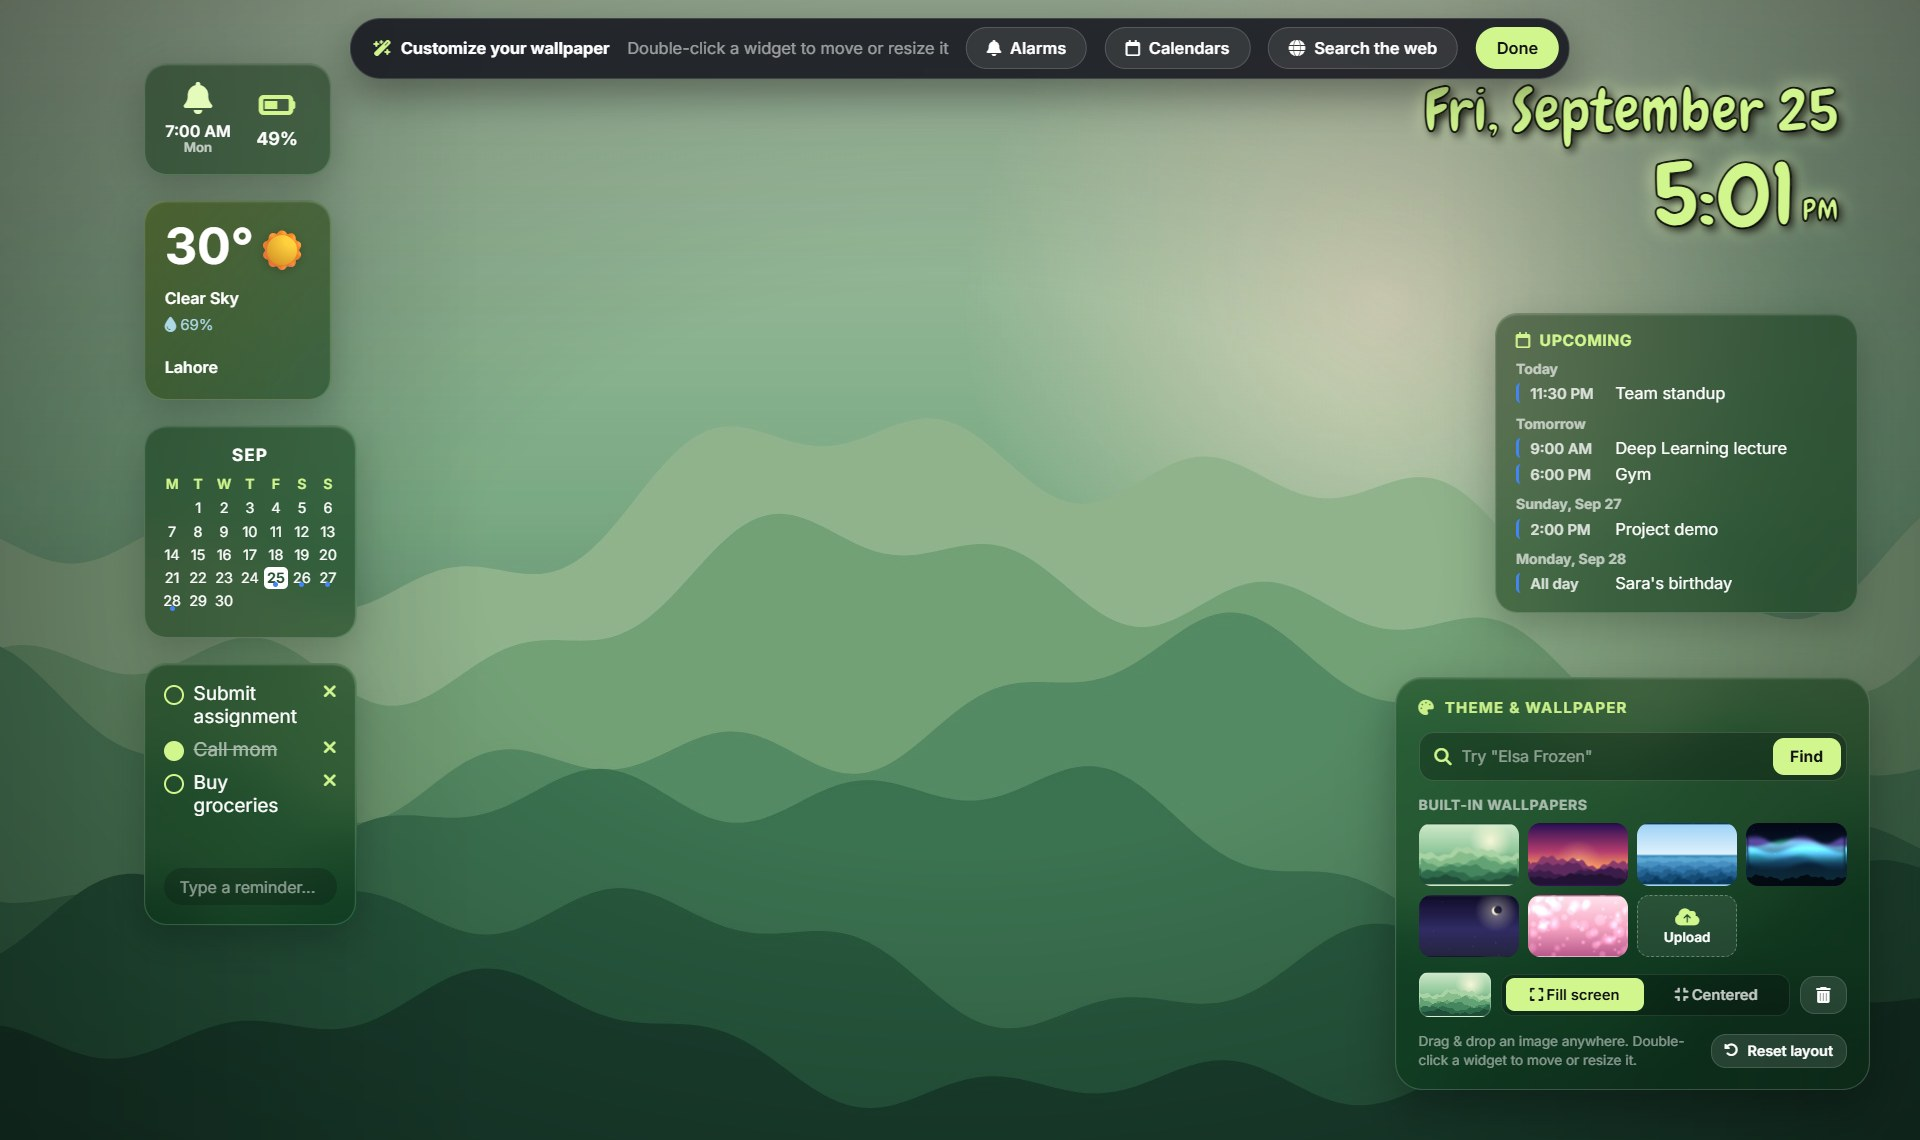
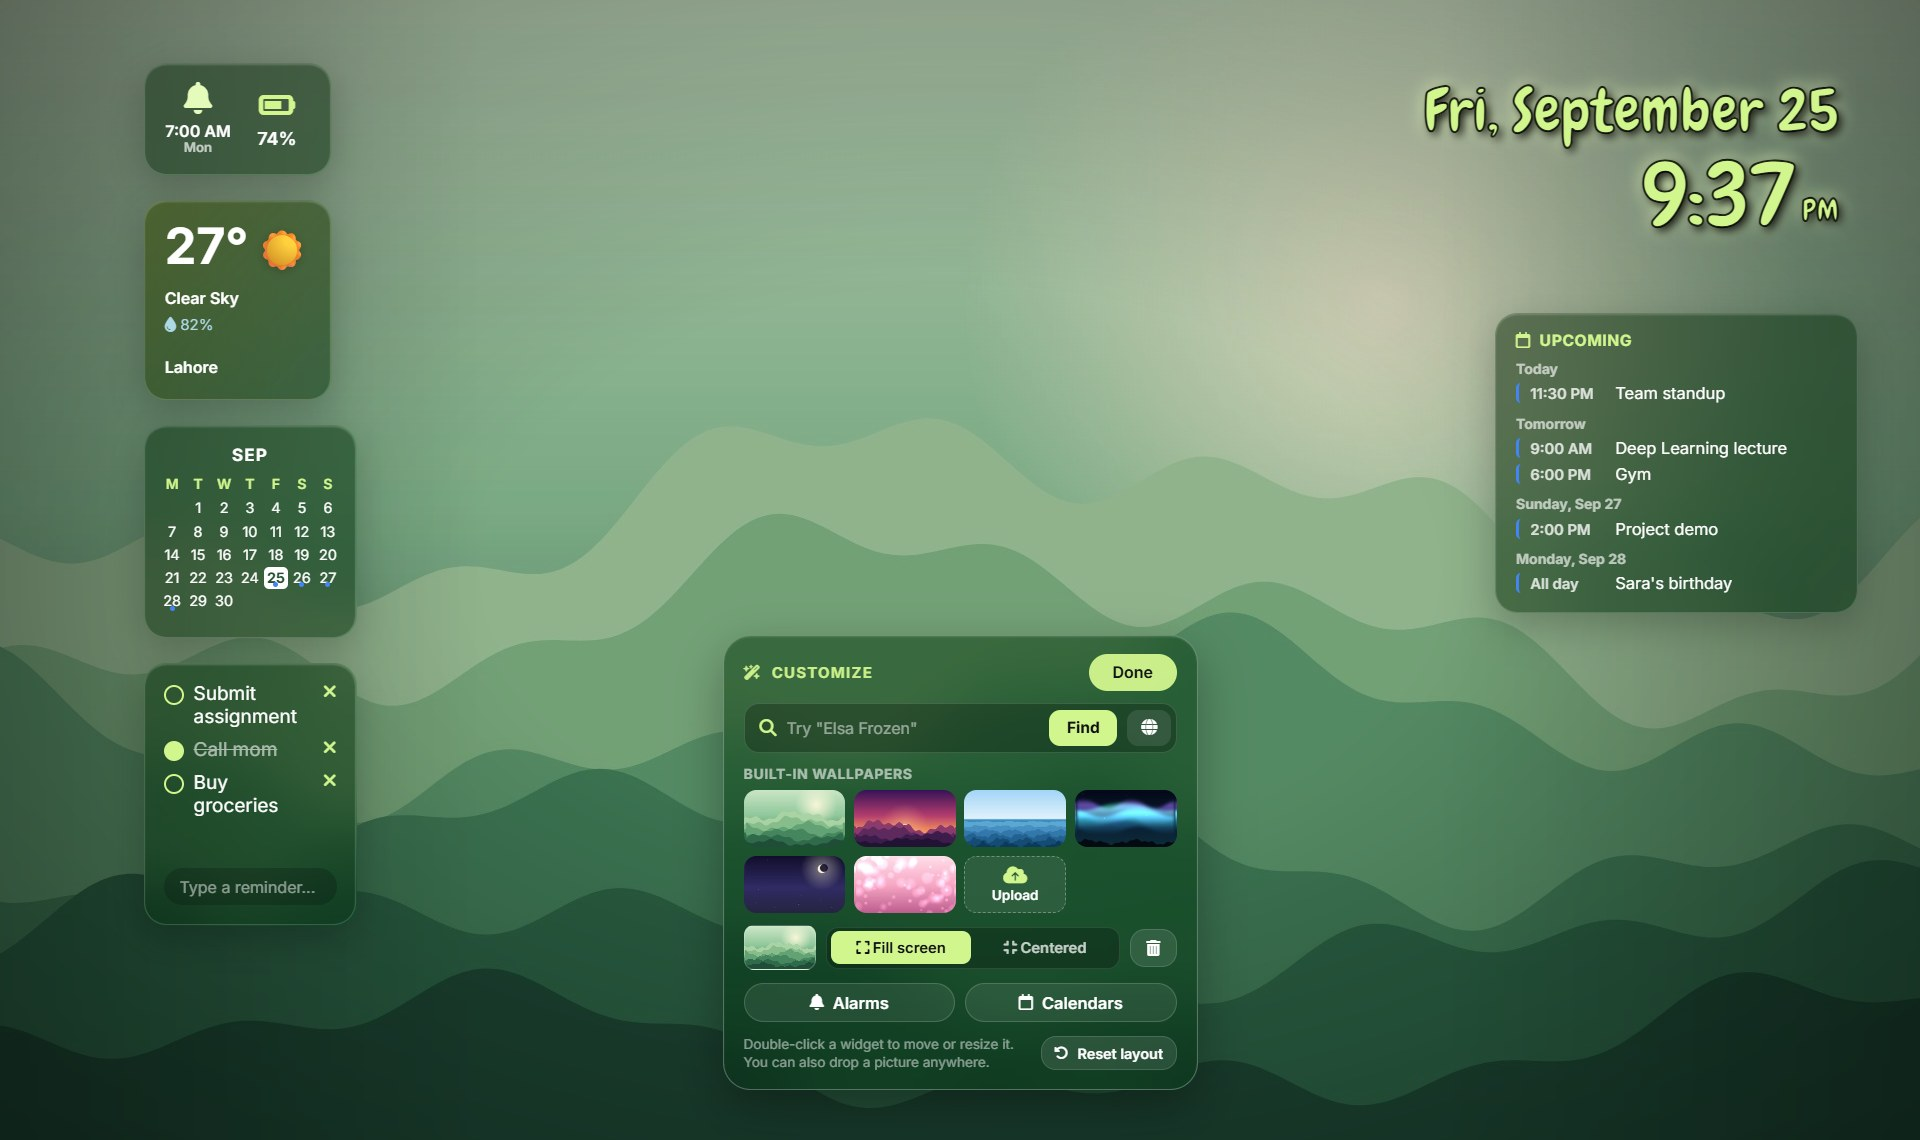
One Customize panel instead of a toolbar and a panel
The top toolbar repeated the panel (the same hint, a second search). Done,
Alarms, Calendars and web search now live in the Customize panel, which
starts at the bottom center so it doesn't cover any widget on smaller
screens, and can no longer be hidden.

diff --git a/src/renderer/index.html b/src/renderer/index.html
@@ -29,16 +29,6 @@
         </div>
     </div>
 
-    <!-- Desktop app: shown while customizing -->
-    <div class="editor-bar" role="toolbar" aria-label="Customize wallpaper">
-        <span class="editor-bar-title"><i class="fa-solid fa-wand-magic-sparkles"></i> Customize your wallpaper</span>
-        <span class="editor-bar-hint">Double-click a widget to move or resize it</span>
-        <button type="button" id="editor-alarms-btn" class="editor-btn"><i class="fa-solid fa-bell"></i> Alarms</button>
-        <button type="button" id="editor-calendars-btn" class="editor-btn"><i class="fa-regular fa-calendar"></i> Calendars</button>
-        <button type="button" id="editor-web-btn" class="editor-btn"><i class="fa-solid fa-globe"></i> Search the web</button>
-        <button type="button" id="editor-done-btn" class="editor-btn editor-btn-primary">Done</button>
-    </div>
-
     <!-- Desktop app: editing widgets right on the desktop (popup mode) -->
     <div class="layout-bar" role="toolbar" aria-label="Edit widgets">
         <span class="layout-bar-title"><i class="fa-solid fa-up-down-left-right"></i> Drag to move, drag a corner to resize</span>
@@ -120,12 +110,12 @@
         </div>
 
         <!-- Aesthetic Theme & Wallpaper Control Panel -->
-        <div class="theme-panel drag-widget" data-id="panel" style="bottom: 40px; right: 40px; width: 380px;">
-            <div class="widget-controls"><button type="button" class="wc-btn wc-restore" title="Original size" aria-label="Original size"><i class="fa-regular fa-window-restore"></i></button><button type="button" class="wc-btn wc-close" title="Hide" aria-label="Hide"><i class="fa-solid fa-xmark"></i></button></div>
-            
+        <!-- Everything for customizing, in one panel (the desktop app shows it in the editor) -->
+        <div class="theme-panel drag-widget" data-id="panel" style="bottom: 40px; left: calc(50% - 190px); width: 380px;">
             <div class="panel-header">
-                <i class="fa-solid fa-palette"></i>
-                <span>THEME & WALLPAPER</span>
+                <i class="fa-solid fa-wand-magic-sparkles"></i>
+                <span>Customize</span>
+                <button type="button" id="editor-done-btn" class="editor-btn editor-btn-primary panel-done">Done</button>
             </div>
 
             <!-- Wallpaper search -->
@@ -133,6 +123,7 @@
                 <i class="fa-solid fa-magnifying-glass"></i>
                 <input type="search" id="wp-search-input" placeholder="Try &quot;Elsa Frozen&quot;" autocomplete="off" maxlength="80" aria-label="Search for a wallpaper">
                 <button type="submit" id="wp-search-btn">Find</button>
+                <button type="button" id="editor-web-btn" class="wp-web-icon" title="Search the whole web (Google, Bing or DuckDuckGo)" aria-label="Search the whole web"><i class="fa-solid fa-globe"></i></button>
             </form>
 
             <!-- Built-in wallpapers (drawn by the app, so they look sharp at any resolution) -->
@@ -157,8 +148,14 @@
                 </button>
             </div>
 
+            <!-- Alarms and calendars -->
+            <div class="panel-quick">
+                <button type="button" id="editor-alarms-btn" class="editor-btn"><i class="fa-solid fa-bell"></i> Alarms</button>
+                <button type="button" id="editor-calendars-btn" class="editor-btn"><i class="fa-regular fa-calendar"></i> Calendars</button>
+            </div>
+
             <div class="panel-footer">
-                <span class="drop-hint">Drag &amp; drop an image anywhere. Double-click a widget to move or resize it.</span>
+                <span class="drop-hint">Double-click a widget to move or resize it. You can also drop a picture anywhere.</span>
                 <button class="panel-btn icon-btn" id="reset-layout-btn" title="Restore default widget layout"><i class="fa-solid fa-rotate-left"></i><span>Reset layout</span></button>
             </div>
         </div>

diff --git a/src/renderer/style.css b/src/renderer/style.css
@@ -542,7 +542,7 @@ body:not(.mode-wallpaper) #todo-list-container { margin-bottom: 38px; }
 /* Aesthetic Theme & Wallpaper Control Panel */
 .theme-panel {
     background: var(--widget-bg);
-    padding: 16px 18px;
+    padding: 14px 16px;
     border-radius: 22px;
     backdrop-filter: blur(20px) saturate(160%);
     -webkit-backdrop-filter: blur(20px) saturate(160%);
@@ -550,7 +550,7 @@ body:not(.mode-wallpaper) #todo-list-container { margin-bottom: 38px; }
     box-shadow: 0 14px 38px rgba(0, 0, 0, 0.3), inset 0 1px 1px rgba(255, 255, 255, 0.12);
     display: flex;
     flex-direction: column;
-    gap: 12px;
+    gap: 10px;
     user-select: none;
     transition: border-color 0.3s ease, box-shadow 0.3s ease;
     resize: none;
@@ -729,6 +729,13 @@ body:not(.mode-wallpaper) #todo-list-container { margin-bottom: 38px; }
 }
 
 /* Theme panel footer */
+.panel-header .panel-done { margin-left: auto; padding: 6px 18px; letter-spacing: 0; text-transform: none; font-size: 0.8rem; }
+.panel-quick { display: flex; gap: 8px; }
+.panel-quick .editor-btn { flex: 1; justify-content: center; padding: 7px 12px; }
+/* Done, Alarms and Calendars belong to the desktop app's editor */
+body:not(.mode-editor) .panel-done,
+body:not(.mode-editor) .panel-quick,
+body:not(.mode-editor) .wp-web-icon { display: none; }
 .panel-footer {
     display: flex;
     align-items: center;
@@ -826,6 +833,8 @@ input:focus-visible {
     transition: filter 0.2s ease, transform 0.1s ease;
 }
 .wp-search button:hover { filter: brightness(1.12); }
+.wp-search .wp-web-icon { background: rgba(255, 255, 255, 0.1); color: #fff; padding: 7px 11px; }
+.wp-search .wp-web-icon:hover { background: rgba(255, 255, 255, 0.18); filter: none; }
 .wp-search button:active { transform: scale(0.96); }
 .colors-hint {
     flex: 1;
@@ -1102,32 +1111,7 @@ body.mode-wallpaper .toast {
 }
 body.mode-wallpaper .drag-widget { cursor: default; }
 
-/* Editor toolbar */
-.editor-bar { display: none; }
-body.mode-editor .editor-bar {
-    position: fixed;
-    top: 14px;
-    left: 50%;
-    transform: translateX(-50%);
-    z-index: 5000;
-    display: flex;
-    align-items: center;
-    gap: 14px;
-    padding: 7px 8px 7px 18px;
-    border-radius: 999px;
-    background: rgba(20, 22, 30, 0.88);
-    border: 1px solid rgba(255, 255, 255, 0.14);
-    box-shadow: 0 12px 34px rgba(0, 0, 0, 0.4);
-    backdrop-filter: blur(14px);
-    -webkit-backdrop-filter: blur(14px);
-    color: #fff;
-    font-family: var(--base-font);
-    font-size: 0.82rem;
-    white-space: nowrap;
-}
-.editor-bar-title { font-weight: 700; }
-.editor-bar-title i { color: var(--accent-color); margin-right: 4px; }
-.editor-bar-hint { color: rgba(255, 255, 255, 0.55); }
+/* Buttons in the Customize panel and the widget-editing bar */
 .editor-btn {
     display: inline-flex;
     align-items: center;
@@ -1434,7 +1418,7 @@ body.mode-browser .agenda-unused { display: none !important; }
 }
 .builtin-tile {
     position: relative;
-    aspect-ratio: 16 / 10;
+    aspect-ratio: 16 / 9;
     border-radius: 10px;
     border: 2px solid transparent;
     background-size: cover;

diff --git a/src/renderer/script.js b/src/renderer/script.js
@@ -127,7 +127,8 @@ const MIN_WIDGET_HEIGHT = 120;
 function restoreLayout() {
     document.querySelectorAll('.drag-widget[data-id]').forEach(widget => {
         const saved = layoutState[widget.dataset.id];
-        if (saved?.hidden) { widget.style.display = 'none'; return; }
+        // The Customize panel holds Done, so it can't stay hidden (older versions let you hide it)
+        if (saved?.hidden && widget.dataset.id !== 'panel') { widget.style.display = 'none'; return; }
         if (saved) {
             LAYOUT_PROPS.forEach(prop => {
                 if (saved[prop]) widget.style[prop] = saved[prop];

diff --git a/README.md b/README.md
@@ -25,7 +25,7 @@ When the app starts, your wallpaper becomes the dashboard and a small icon appea
 - **Start with Windows**: open the app automatically when you sign in.
 - **Quit**: close the app and bring back your normal wallpaper.
 
-Press **Done** at the top of the screen when you've finished customizing.
+While customizing, everything is in the **Customize** panel at the bottom of the screen: wallpapers, **Alarms**, **Calendars**, and **Done** when you've finished.
 
 ## Clicking widgets on your desktop
 
@@ -53,10 +53,10 @@ To change the picture and everything else, use **Customize wallpaper**.
 
 ## Choosing a wallpaper
 
-In **Customize wallpaper**, use the **Theme & Wallpaper** panel:
+In **Customize wallpaper**, use the **Customize** panel:
 
 - **Search**: type a character, movie, show or place (for example *Elsa Frozen* or *Studio Ghibli*) and click a picture you like. Use **Load more** for more choices.
-- **Search the whole web**: opens Google, Bing or DuckDuckGo Images. Open any picture, right-click it and choose **Set as wallpaper**.
+- **Search the whole web** (the globe button next to **Find**): opens Google, Bing or DuckDuckGo Images. Open any picture, right-click it and choose **Set as wallpaper**.
 - **Built-in wallpapers**: six ready-made designs that look sharp on any screen.
 - **Upload**: use a picture from your computer, or drag one onto the screen.
 - **Fill screen or Centered**: choose whether the picture fills the whole screen or sits in the middle at its natural shape.
@@ -67,7 +67,7 @@ To move or resize a widget, **double-click** it, drag it where you want, and res
 
 ## Alarms
 
-Open **Alarms** (tray menu, the bell on your dashboard, or the Alarms button while customizing) and press **Add alarm**.
+Open **Alarms** (tray menu, the bell on your desktop, or the **Alarms** button in the Customize panel) and press **Add alarm**.
 
 - **Type when it should ring**, the way you'd say it: *tomorrow 7am*, *fri 6:30pm*, *in 20 min*, *25/12 8pm*, *every weekday 7:30*, *mondays 8pm*. The app shows how it understood you and fills in the details.
 - Or set the **time**, **date** and **repeat days** yourself, and add a **label** like *Class* or *Gym*.
